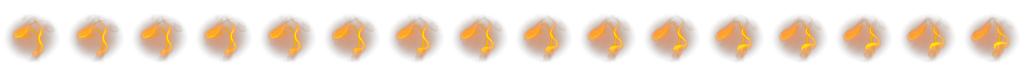
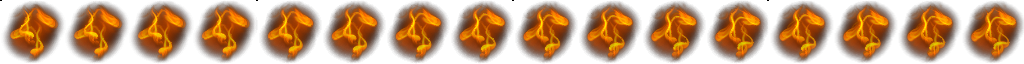
Updated images and animations (more)

diff --git a/src/editor.js b/src/editor.js
@@ -23,25 +23,25 @@ Editor = {
 	placeables : [
 		{
 			id: 'Fire',
-			img: 'assets/t_env_fireA.png',
+			img: 'assets/t_env_fireB.png',
 			numberRemaining : 5,
 			numberInitial : 5
 		},
 		{
 			id: 'Water',
-			img: 'assets/t_env_waterA.png',
+			img: 'assets/t_env_waterB.png',
 			numberRemaining : 5,
 			numberInitial : 5
 		},
 		{
 			id: 'Bug',
-			img: 'assets/t_env_bugA.png',
+			img: 'assets/t_env_bugB.png',
 			numberRemaining : 5,
 			numberInitial : 5
 		},
 		{
 			id: 'Wall',
-			img: 'assets/env_wallA.png',
+			img: 'assets/env_wallB.png',
 			numberRemaining : 5,
 			numberInitial : 5
 		}
